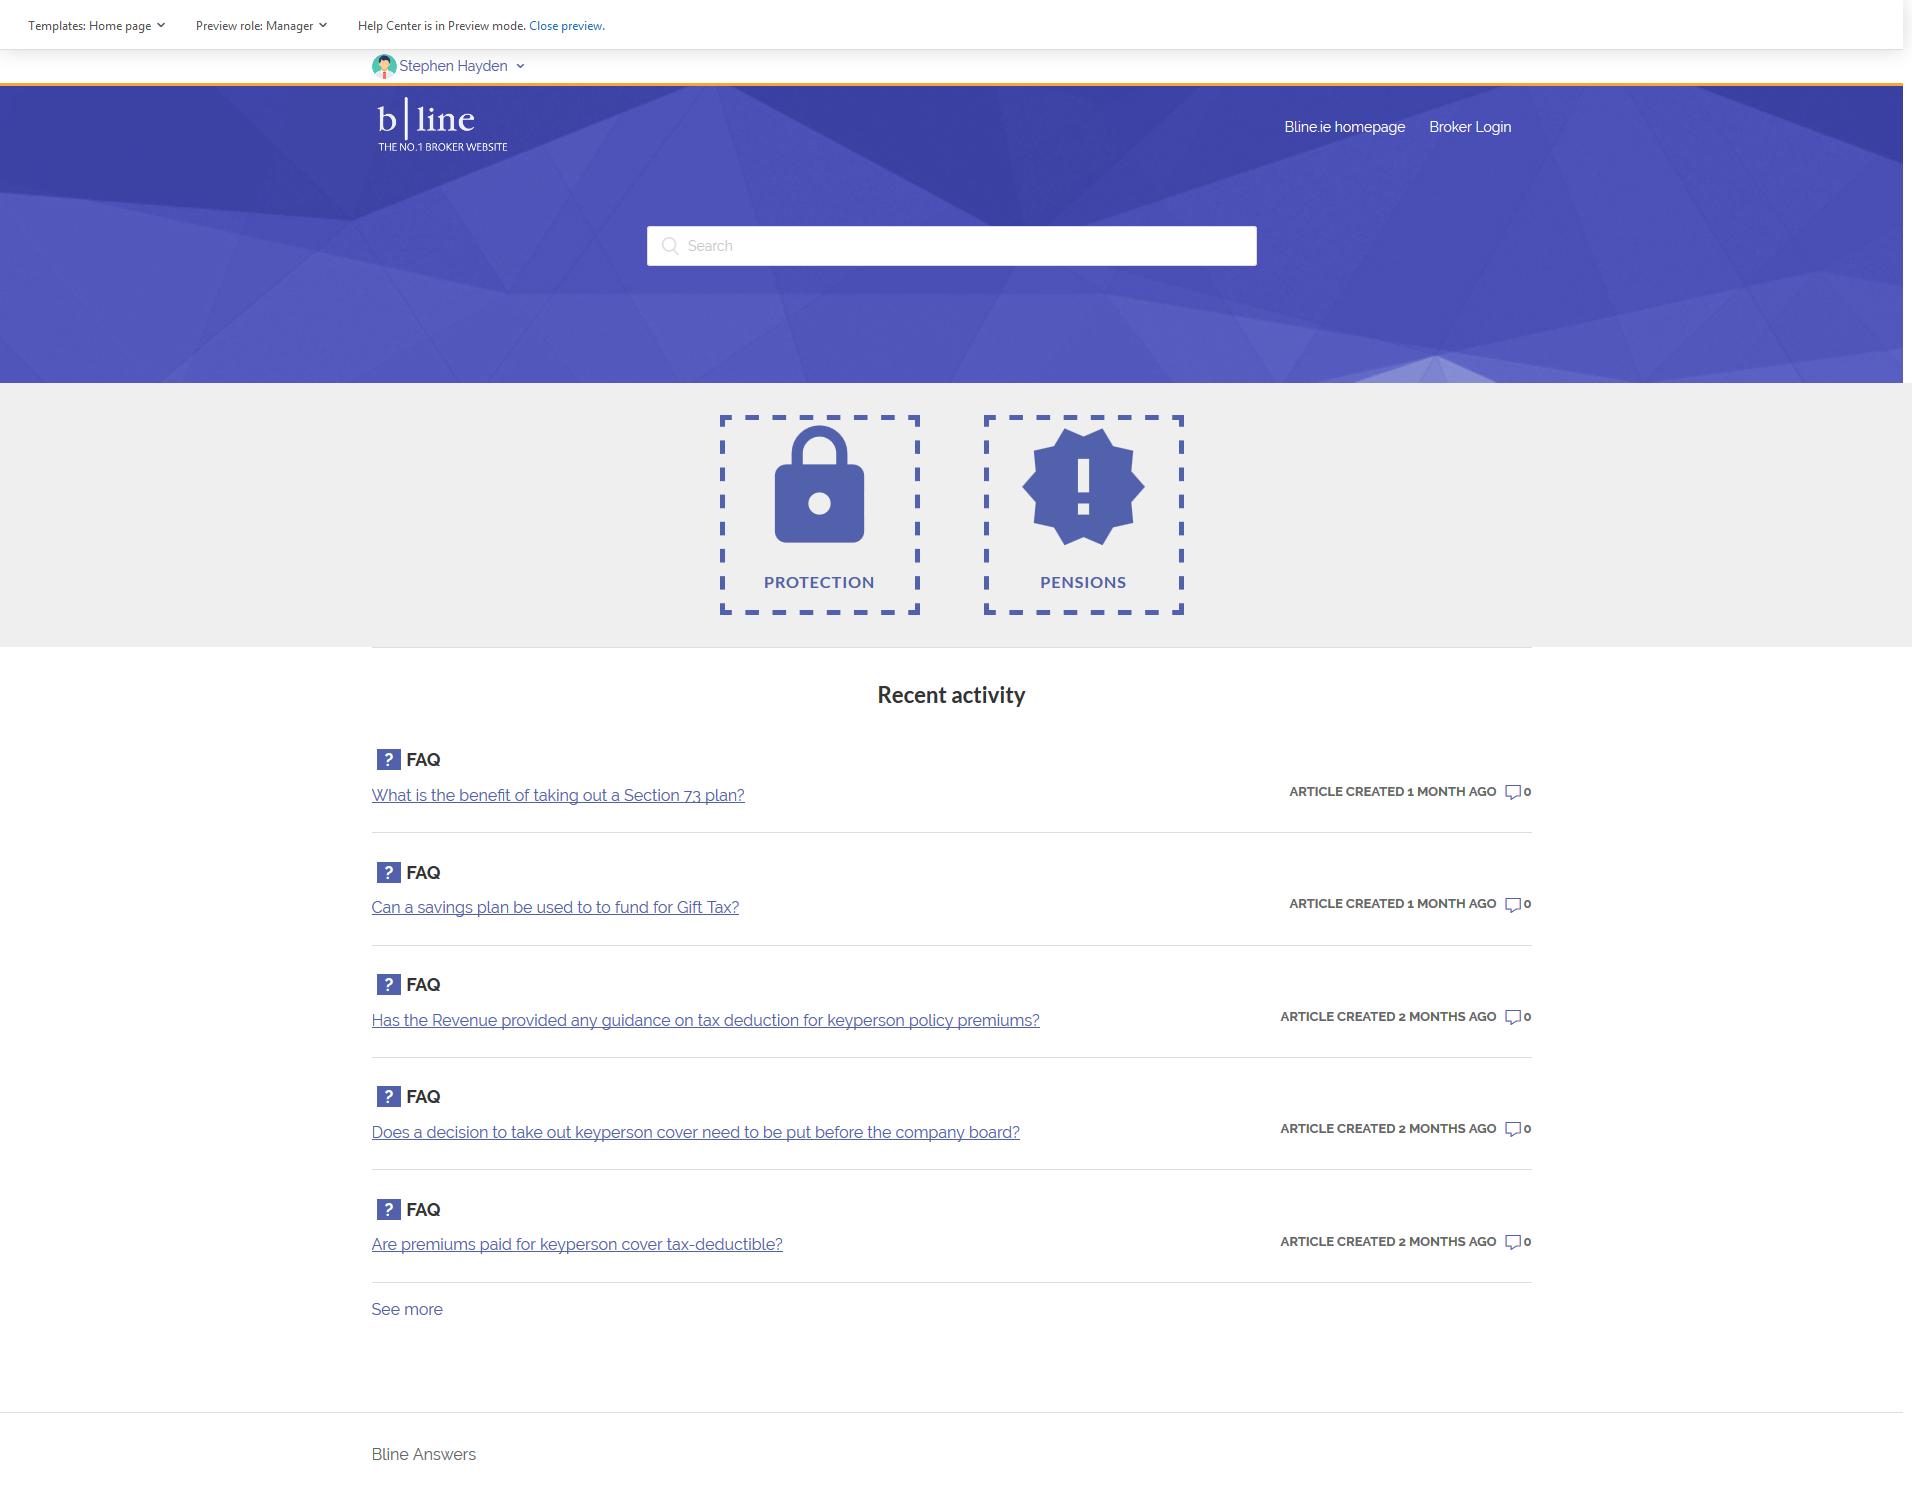
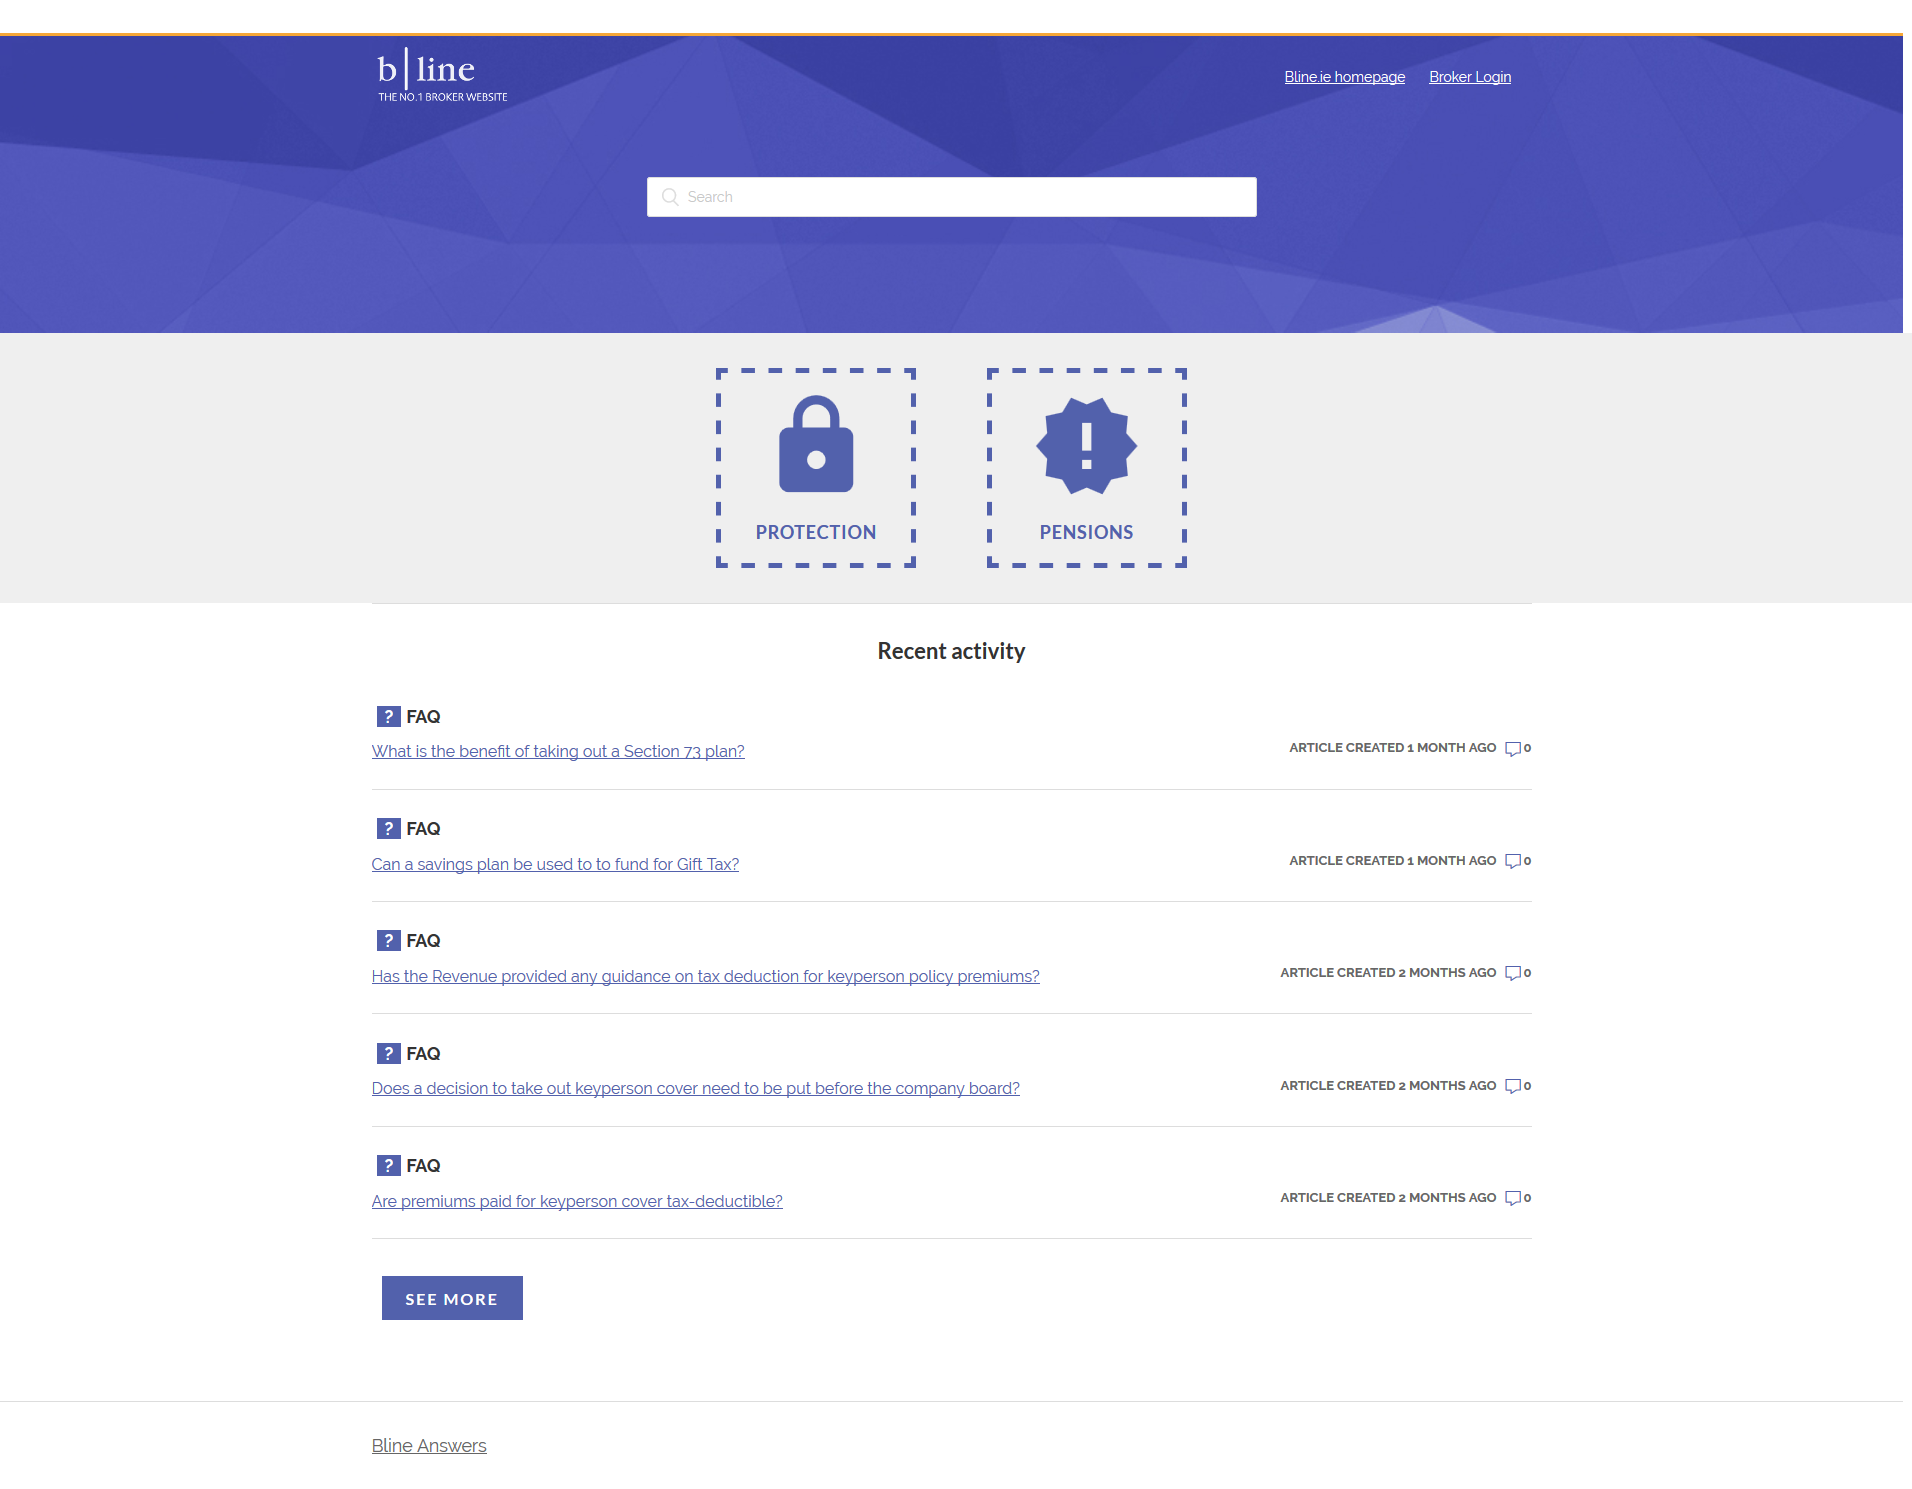
Added version 6 of zendesk theme

diff --git a/style.css b/style.css
@@ -44,11 +44,19 @@ h4 {
 }
 
 a {
-  color: $link_color;
-  text-decoration: none;
+  color: #5261ac;
+  text-decoration: underline;
+  font-family: 'Raleway', sans-serif;
+  font-size: 1.1rem;
+/*   color: $link_color;
+  text-decoration: none; */
 }
 
-a:hover, a:active, a:focus {
+a:hover {
+  color: #f6a737;
+}
+
+a:active, a:focus {
   text-decoration: none;
 }
 
@@ -112,7 +120,7 @@ textarea:focus {
   padding: 0 5%;
 }
 
-.button, a.button {
+.jbtn, a.jbtn {
   width: max-content;
   padding: 0.8em 1.5em;
   background-color: #efefef;
@@ -127,12 +135,12 @@ textarea:focus {
   text-decoration: none;
 }
 
-.button-cta, a.button-cta {
-  color: #efefef;
+.jbtn-cta, a.jbtn-cta {
+  color: #ffffff;
   background-color: #5261ac;
 }
 
-.button-cta:hover {
+.jbtn-cta:hover {
   background-color: #50c9b5;
 }
 
@@ -191,7 +199,6 @@ ul {
   margin: 0;
   padding: 0 20px;
   text-align: center;
-  transition: background-color .12s ease-in-out, border-color .12s ease-in-out, color .15s ease-in-out;
   user-select: none;
   white-space: nowrap;
   width: 100%;
@@ -205,7 +212,7 @@ ul {
 }
 
 .button::after, [role="button"]::after {
-  color: $brand_color;
+  color: #ffffff;
 }
 
 .button:hover, .button:active, .button:focus, .button[aria-selected="true"], [role="button"]:hover, [role="button"]:active, [role="button"]:focus, [role="button"][aria-selected="true"] {
@@ -491,6 +498,7 @@ ul {
 .user-nav[aria-expanded="true"] > a {
   display: block;
   margin: 20px;
+  color: #5261ac;
 }
 
 .nav-wrapper a {
@@ -1023,6 +1031,11 @@ ul {
 .recent-activity-item-parent {
   font-size: 18px;
   font-weight: 800;
+  text-decoration: none;
+}
+
+.recent-activity-item-parent:hover {
+  color: #f6a717;
 }
 
 .recent-activity-item-parent::before {
@@ -1031,6 +1044,10 @@ ul {
   background-color: #5261AC;
   padding: 0 8px;
   margin: 0 5px;
+}
+
+.recent-activity-item-parent::before:hover {
+  text-decoration: none;
 }
 
 .recent-activity-item-parent, .recent-activity-item-link {
@@ -1052,6 +1069,11 @@ ul {
   font-weight: 400;
   color: #5261ac;
   text-decoration: underline;
+}
+
+.recent-activity-item-link:hover {
+  color: #f6a717;
+  text-decoration: underline dotted;
 }
 
 .recent-activity-item-meta {
@@ -1104,6 +1126,7 @@ ul {
 
 .recent-activity-controls {
   padding-top: 15px;
+  margin-top: 2em;
 }
 
 /***** Category pages *****/
@@ -1156,6 +1179,12 @@ ul {
 
 .section-tree-title a {
   color: $text_color;
+  text-decoration: none;
+  font-weight: 800;
+}
+
+.section-tree-title a:hover {
+  color: #f6a737;
 }
 
 .section-tree .see-all-articles {
@@ -1169,9 +1198,7 @@ ul {
   padding: 15px 0;
 }
 
-.article-list-item a {
-  color: $text_color;
-}
+
 
 .icon-star::before {
   color: $brand_color;
@@ -1424,13 +1451,31 @@ ul {
   text-align: center;
 }
 
+.article-votes-question {
+  color: lighten($text_color, 20%);
+  display: inline-block;
+  font-size: 13px;
+  font-weight: 800;
+  text-transform: uppercase;
+}
+
 .article-vote {
-  background: transparent;
-  border: 1px solid $brand_color;
-  color: $brand_color;
-  margin: 10px 5px;
-  min-width: 90px;
-  width: auto;
+  width: max-content;
+  padding: 0.8em 2em;
+  background-color: #5261ac;
+  border: none;
+  color: #ffffff;
+  margin: 10px 0;
+  text-decoration: none;
+  text-transform: uppercase;
+  letter-spacing: 2px;
+  font-family: 'Lato', arial, sans-serif;
+  font-weight: 800;
+  font-size: 1rem;
+}
+
+a.article-vote {
+  color: #ffffff;
 }
 
 .article-vote::before {
@@ -1454,7 +1499,7 @@ ul {
 }
 
 .article-vote:hover {
-  background-color: $brand_color;
+  background-color: #50c9b5;
 }
 
 .article-vote:hover::before, .article-vote:hover::after, .article-vote[aria-selected="true"]::before, .article-vote[aria-selected="true"]::after {
@@ -1467,6 +1512,14 @@ ul {
 
 .article-vote-down::before {
   content: "\2715";
+}
+
+.article-vote-label {
+  color: lighten($text_color, 20%);
+  display: inline-block;
+  font-size: 13px;
+  font-weight: 800;
+  text-transform: uppercase;
 }
 
 .article-more-questions {
@@ -1514,13 +1567,38 @@ ul {
   border-color: darken($brand_color, 20%);
 }
 
+.article-subscribe {
+  font-family: 'Lato', Arial, sans-serif;
+  background-color: #5261ac;
+  color: #ffffff;
+  width: max-content;
+  padding: 0.8em 1.5em;
+  margin: 0;
+  text-decoration: none;
+  text-transform: uppercase;
+  font-size: 1rem;
+  letter-spacing: 2px;
+  font-weight: 800;
+  border: none;
+}
+
+.article-subscribe:hover {
+  background-color: #50c9b5;
+}
+
+@media (min-width: 768px) {
+  .article-subscribe {
+    margin: 10px;
+  }
+}
+
 .sidenav-title {
   font-size: 15px;
   position: relative;
 }
 
 .sidenav-item {
-  color: $text_color;
+  border: 2px solid #ffffff;
   display: block;
   font-weight: 300;
   margin-bottom: 10px;
@@ -1528,15 +1606,13 @@ ul {
 }
 
 .sidenav-item.current-article, .sidenav-item:hover {
-  background-color: $brand_color;
-  color: $brand_text_color;
-  text-decoration: none;
+  border: 2px dashed #f6a737;
+  text-decoration: underline dashed;
 }
 
 .recent-articles h3,
 .related-articles h3 {
-  font-size: 15px;
-  margin: 20px 0;
+  font-size: 1.563em;
 }
 
 .recent-articles li,
@@ -1652,11 +1728,11 @@ ul {
 }
 
 .comment-callout {
-  color: lighten($text_color, 20%);
+  color: #666;
   display: inline-block;
-  font-weight: 300;
   font-size: 13px;
-  margin-bottom: 0;
+  font-weight: 800;
+  text-transform: uppercase;
 }
 
 .comment-callout a {
@@ -2636,10 +2712,12 @@ ul {
   position: relative;
 }
 
+
 @media (min-width: 1024px) {
   .collapsible-sidebar {
     max-height: none;
     padding: 0;
+    padding-bottom: 1em;
   }
 }
 
@@ -4195,6 +4273,7 @@ body {
 
 .icon-box__icon {
   fill: #5261AC;
+  margin-top: 1em;
 }
 
 .icon-box:hover > .icon-box__icon {
@@ -4203,6 +4282,10 @@ body {
 
 .icon-box__text {
   color: #5261AC;
+}
+
+.icon-box__link {
+  text-decoration: none;
 }
 
 .h2 {

diff --git a/script.js b/script.js
@@ -84,7 +84,7 @@ $(document).ready(function() {
     });
   }
 
-  $(".header .icon-menu").on("click", function(e) {
+  $(".icon-menu").on("click", function(e) {
     e.stopPropagation();
     var menu = document.getElementById("user-nav");
     var isExpanded = menu.getAttribute("aria-expanded") === "true";
@@ -106,4 +106,12 @@ $(document).ready(function() {
     var isExpanded = this.getAttribute("aria-expanded") === "true";
     this.setAttribute("aria-expanded", !isExpanded);
   });
+  
+  function attachClass() {
+    if(document.getElementsByClassName("recent-activity-controls").length >= 1) {
+    	var button = document.getElementsByClassName("recent-activity-controls")[0].firstElementChild;
+    	$(button).addClass("jbtn jbtn-cta");
+    }
+  }
+  attachClass();
 });
